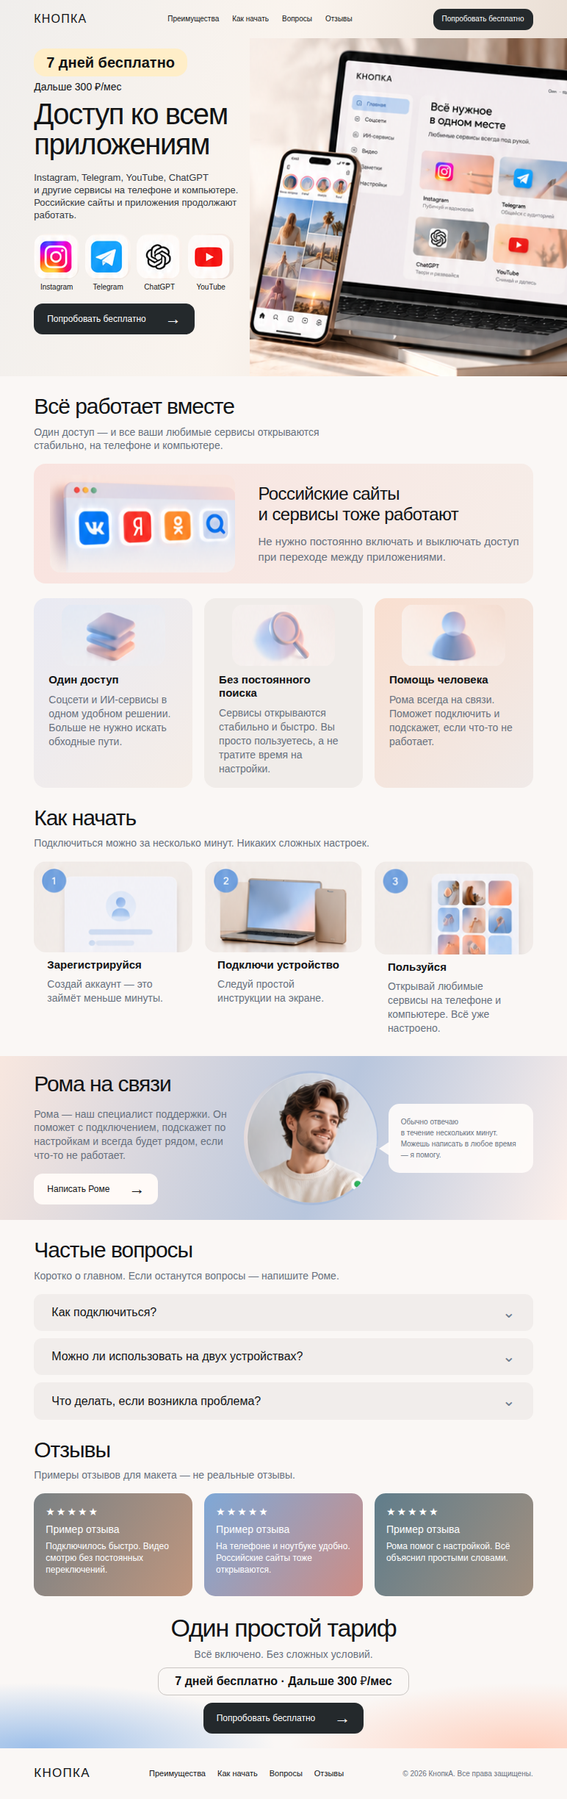
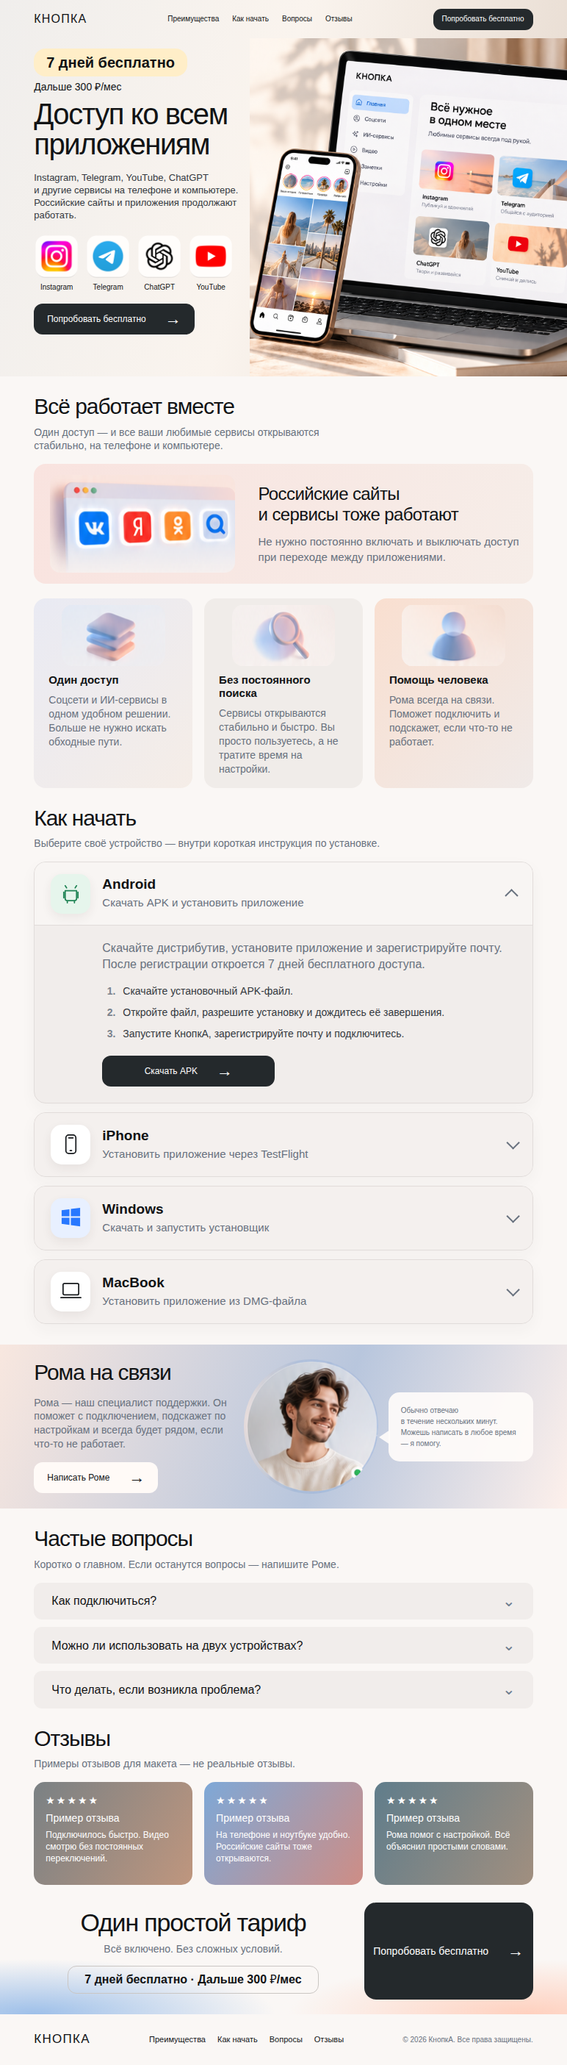
Redesign landing hero assets

diff --git a/Design2.0/version-001-mvp/site/source/styles.css b/Design2.0/version-001-mvp/site/source/styles.css
@@ -3,4 +3,33 @@
 *{box-sizing:border-box}body{margin:0;font-size:16px;line-height:1.35}img{display:block;max-width:100%;height:auto}button,a,summary{-webkit-tap-highlight-color:transparent}button{font:inherit}a{color:inherit;text-decoration:none}button{cursor:pointer}a:focus-visible,button:focus-visible,summary:focus-visible{outline:3px solid #406cb1;outline-offset:4px}h1,h2,h3,p{margin:0}h1,h2{font-weight:400;letter-spacing:-.035em}h2{font-size:clamp(30px,3.7vw,48px);line-height:1.12}h3{font-size:18px;font-weight:600;line-height:1.2}p{color:var(--muted)}.shell{width:88%;max-width:1160px;margin-inline:auto}.skip-link{position:absolute;left:12px;top:-80px;z-index:10;background:white;padding:12px}.skip-link:focus{top:12px}.hero-wrap{position:relative;background:linear-gradient(105deg,#f0eeec,#faf4ee 46%,#e5d8cd)}.header{height:76px;display:flex;align-items:center;gap:22px;position:relative;z-index:2}.wordmark{font-size:20px;letter-spacing:.075em;white-space:nowrap}.header nav,.footer nav{display:flex;gap:30px;align-items:center}.header nav{margin-inline:auto}.header nav a{font-size:13px}.button{display:inline-flex;align-items:center;justify-content:center;gap:26px;background:var(--action);color:white;border:0;border-radius:12px;min-height:48px;padding:12px 23px;font-size:15px;white-space:nowrap}.button span{font-size:22px;font-weight:300;line-height:1}.button.small{min-height:36px;padding:9px 16px;border-radius:11px;font-size:12px}.hero{max-width:1320px;margin:auto;position:relative;min-height:700px;display:grid;grid-template-columns:44% 56%;align-items:start;overflow:hidden}.hero-copy{position:relative;z-index:1;padding:30px 0 85px 13.6%;width:100%}.trial{display:inline-block;background:#ffeec8;border-radius:16px;padding:9px 22px;font-size:27px;line-height:1.1;white-space:nowrap}.after-trial{font-size:17px;color:var(--ink);margin:5px 0 7px}.hero h1{font-size:clamp(36px,4.65vw,60px);line-height:1.04;margin:0 0 16px}.hero-description{font-size:17px;line-height:1.3;color:#343940}.services{display:flex;gap:13px;list-style:none;margin:20px 0 22px;padding:0}.services li{text-align:center;min-width:0;width:85px;flex-shrink:1}.services img{width:100%;border-radius:17px}.services span{display:block;margin-top:4px;font-size:13px}.hero-image{width:100%;height:700px;object-fit:cover;object-position:left top;align-self:stretch}.hero-cta{min-width:280px}.section{padding-top:32px}.section-intro{margin:9px 0 20px;font-size:17px}.russian-card{display:grid;grid-template-columns:43% 57%;align-items:center;padding:24px 30px;border-radius:var(--radius);background:linear-gradient(110deg,#f9e3df,#f6ede8);gap:10px}.russian-card img{width:92%;border-radius:14px}.russian-card h3{font-size:clamp(24px,2.7vw,34px);font-weight:500;letter-spacing:-.025em}.russian-card p{margin-top:12px;font-size:18px;max-width:520px}.grid-three{display:grid;grid-template-columns:repeat(3,minmax(0,1fr));gap:22px}.benefits{margin-top:20px}.benefits article{padding:12px 28px 24px;background:#f0ece9;border-radius:var(--radius)}.benefits article:first-child{background:linear-gradient(135deg,#e9eaf3,#f5ede7)}.benefits article:last-child{background:linear-gradient(135deg,#f9dfd0,#f0eae8)}.benefits img{width:80%;height:128px;object-fit:contain;margin:auto auto 9px;border-radius:16px}.benefits p{margin-top:9px;font-size:17px}.steps{list-style:none;margin:0;padding:0}.steps img{width:100%;border-radius:17px}.steps h3,.steps p{margin:10px 24px 0}.steps p{font-size:17px}.support{margin-top:38px;padding:26px 0;background:linear-gradient(110deg,#f8e7df,#b8c6dd 58%,#fdf0eb)}.support-grid{display:grid;grid-template-columns:40% 27% 29%;gap:2%;align-items:center}.support-copy p{margin:15px 0;font-size:17px;max-width:370px}.light{background:#fffaf7;color:var(--ink)}.portrait{width:100%;aspect-ratio:1;object-fit:cover;border-radius:50%}.speech{position:relative;background:#fffcfae8;border-radius:15px;padding:22px;font-size:13px;line-height:1.5}.speech::before{content:"";position:absolute;left:-13px;top:55%;border-top:10px solid transparent;border-bottom:10px solid transparent;border-right:15px solid #fffcfae8}details{margin-top:10px;border-radius:11px;background:#f1edeb}summary{cursor:pointer;list-style:none;padding:11px 24px;display:flex;align-items:center;justify-content:space-between;gap:16px;font-size:16px}summary::-webkit-details-marker{display:none}summary::after{content:"⌄";color:#6d7d8f;font-size:21px}details[open] summary::after{content:"−"}details p{padding:0 24px 16px;font-size:16px}.reviews{padding-top:34px}.review-grid article{border-radius:15px;padding:20px 26px;min-height:165px;color:#fff;background:linear-gradient(120deg,#7a8184,#bf967e)}.review-grid article:nth-child(2){background:linear-gradient(125deg,#7ea8d7,#ce8d85)}.review-grid article:nth-child(3){background:linear-gradient(120deg,#607d8b,#a18f7f)}.review-grid strong{display:block;font-size:14px;font-weight:500;margin:5px 0}.review-grid p{color:inherit;font-size:14px}.stars{letter-spacing:2px}.tariff{position:relative;margin-top:10px;text-align:center;padding:14px 0 20px;overflow:hidden;background:radial-gradient(ellipse at 6% 100%,#9dbfe9 0,transparent 32%),radial-gradient(ellipse at 93% 100%,#ffd0be 0,transparent 32%),var(--paper)}.tariff h2{font-size:34px}.tariff p{margin:8px 0;font-size:14px}.tariff-price{display:inline-block;padding:7px 22px;border:1px solid #cac6c3;border-radius:12px;font-size:16px}.tariff .button{margin-top:10px}.footer{padding:23px 0;display:flex;align-items:center;justify-content:space-between;gap:22px}.footer .wordmark{font-size:17px}.footer nav{gap:24px;font-size:11px}.footer small{font-size:10px;color:var(--muted)}
 @media(min-width:701px) and (max-width:1000px){body{font-size:14px}.header{height:52px;gap:10px}.header nav{gap:18px}.header nav a{font-size:10px}.wordmark{font-size:16px}.button.small{font-size:10px;padding:7px 12px;min-height:29px}.hero{min-height:460px}.hero-image{height:460px}.hero-copy{padding-top:14px;padding-bottom:30px}.trial{font-size:20px;padding:8px 17px}.after-trial{font-size:14px}.hero h1{font-size:40px}.hero-description{font-size:13px}.services{gap:8px;margin:16px 0}.services li{width:62px}.services span{font-size:10px}.hero-cta{min-width:0}.button{font-size:12px;min-height:40px;padding:10px 18px}.section{padding-top:24px}.section-intro{font-size:14px;margin-bottom:15px}.russian-card{padding:15px 22px}.russian-card p{font-size:15px}.grid-three{gap:16px}.benefits article{padding:8px 20px 16px}.benefits img{height:85px}h3{font-size:15px}.benefits p,.steps p,.support-copy p{font-size:14px}.steps h3,.steps p{margin:8px 18px 0}.speech{font-size:10px;padding:17px}.support{margin-top:28px;padding:20px 0}.review-grid article{padding:16px;min-height:140px}.review-grid p{font-size:12px}.footer nav{gap:16px}}
 @media(max-width:700px){.shell{width:calc(100% - 32px)}.header{height:auto;min-height:92px;padding:17px 0 13px;flex-wrap:wrap;gap:12px}.header .wordmark{font-size:18px}.header .small{margin-left:auto;min-height:32px;font-size:10px;padding:8px 10px}.header nav{width:100%;order:3;justify-content:space-between;gap:8px;margin:0}.header nav a{font-size:11px}.hero{display:flex;flex-direction:column;min-height:0}.hero-copy{padding:20px 22px 25px}.trial{font-size:22px;padding:9px 17px}.after-trial{font-size:15px}.hero h1{font-size:39px;margin-top:8px}.hero-description{font-size:15px}.desktop-break{display:none}.services{gap:12px;margin:20px 0}.services li{width:68px}.services span{font-size:11px}.hero-cta{min-width:0;width:100%}.hero-image{height:auto;max-height:450px;aspect-ratio:434/448;object-fit:cover;object-position:center}.section{padding-top:29px}h2{font-size:31px}.section-intro{font-size:15px;margin-bottom:17px}.russian-card{grid-template-columns:1fr;padding:18px;gap:20px}.russian-card img{width:250px;max-width:100%;margin:auto}.russian-card h3{font-size:25px}.russian-card p{font-size:16px}.grid-three{grid-template-columns:1fr;gap:15px}.benefits article{padding:18px 22px}.benefits img{width:140px;height:82px;margin:0 0 14px}.benefits p{font-size:16px}.steps li{padding-bottom:9px}.steps img{max-height:205px;object-fit:cover}.steps h3,.steps p{margin:10px 12px 0}.steps p{font-size:16px}.support{margin-top:28px}.support-grid{grid-template-columns:1fr 120px;gap:18px}.support-copy{grid-column:1/-1}.support-copy p{font-size:16px}.portrait{grid-column:2;grid-row:2}.speech{grid-column:1;grid-row:2;font-size:12px;padding:14px}.speech::before{left:auto;right:-12px;border-right:0;border-left:13px solid #fffcfae8}summary{font-size:15px;padding:12px 16px}details p{font-size:15px;padding-inline:16px}.review-grid article{min-height:0;padding:20px}.review-grid p{font-size:15px}.tariff{margin-top:22px;padding:24px 0}.tariff h2{font-size:29px}.tariff-price{font-size:14px;padding:8px 10px}.footer{flex-wrap:wrap;padding:24px 0;gap:18px}.footer nav{order:2;width:100%;justify-content:space-between;gap:10px;font-size:11px}.footer small{width:100%;order:3}.button{white-space:normal}}
+
+.platform-accordions{display:grid;gap:12px;max-width:920px}
+.platform-accordion{margin:0;border:1px solid #e1dcda;border-radius:16px;background:#f1edeb;overflow:hidden;box-shadow:0 8px 22px rgb(50 43 39 / 4%)}
+.platform-accordion summary{min-height:86px;padding:14px 22px;justify-content:flex-start;background:#f4f0ee}
+.platform-accordion summary::after{content:"";width:11px;height:11px;margin-left:auto;border-right:2px solid #68717e;border-bottom:2px solid #68717e;transform:rotate(45deg) translateY(-3px);transition:transform .18s ease}
+.platform-accordion[open] summary::after{content:"";transform:rotate(225deg) translate(-2px,-2px)}
+.platform-accordion[open] summary{border-bottom:1px solid #e1dcda;background:#f8f5f3}
+.platform-mark{display:grid;place-items:center;flex:0 0 54px;width:54px;height:54px;border-radius:15px;background:#fff;color:#171a1d;box-shadow:0 5px 14px rgb(50 43 39 / 7%)}
+.platform-mark svg{width:31px;height:31px;fill:none;stroke:currentColor;stroke-width:1.8;stroke-linecap:round;stroke-linejoin:round}
+.platform-mark.filled svg{fill:currentColor;stroke:none}
+.platform-android .platform-mark{color:#208455;background:#e6f5ec}
+.platform-iphone .platform-mark,.platform-macbook .platform-mark{background:#fff}
+.platform-windows .platform-mark{color:#2878ff;background:#e8f0ff}
+.platform-heading{display:grid;gap:3px;min-width:0}
+.platform-heading strong{font-size:19px;line-height:1.2}
+.platform-heading span{color:var(--muted);font-size:15px}
+.platform-content{padding:20px 22px 22px 92px}
+.platform-content>p{max-width:690px;padding:0;font-size:16px}
+.platform-content ol{display:grid;gap:10px;margin:17px 0 20px;padding-left:22px;max-width:720px;color:#343940}
+.platform-content li{padding-left:6px}
+.platform-content li::marker{font-weight:700;color:#7b838d}
+.platform-download{min-width:235px}
+.tariff-layout{display:grid;grid-template-columns:max-content minmax(300px,360px);justify-content:center;gap:32px;align-items:stretch}
+.tariff-copy{display:flex;flex-direction:column;align-items:center;justify-content:center;padding:8px 0;text-align:center}
+.tariff-copy .tariff-price{margin-top:5px}
+.tariff .tariff-cta{align-self:stretch;min-height:100%;margin-top:0;border-radius:16px;font-size:17px}
+@media(min-width:701px) and (max-width:1000px){.tariff-layout{grid-template-columns:minmax(0,1fr) 230px;gap:16px}.tariff .tariff-cta{font-size:14px}}
+@media(max-width:700px){.platform-accordions{gap:10px}.platform-accordion summary{min-height:76px;padding:11px 14px;gap:12px}.platform-mark{flex-basis:48px;width:48px;height:48px;border-radius:13px}.platform-mark svg{width:28px;height:28px}.platform-heading strong{font-size:17px}.platform-heading span{font-size:13px;line-height:1.3}.platform-content{padding:17px 16px 19px}.platform-content>p{padding:0;font-size:15px}.platform-content ol{gap:9px;margin:15px 0 18px;padding-left:21px;font-size:15px}.platform-download{width:100%;min-width:0}.tariff-layout{grid-template-columns:1fr;gap:14px}.tariff-copy{align-items:center;padding:0;text-align:center}.tariff .tariff-cta{width:100%;min-height:62px;font-size:16px}}
+@media(prefers-reduced-motion:reduce){.platform-accordion summary::after{transition:none}}
 @media(prefers-reduced-motion:no-preference){html{scroll-behavior:smooth}}

diff --git a/Design2.0/version-001-mvp/site/source/index.html b/Design2.0/version-001-mvp/site/source/index.html
@@ -12,7 +12,7 @@
     <header class="header shell">
       <a class="wordmark" href="#top">КНОПКА</a>
       <nav aria-label="Основная навигация"><a href="#benefits">Преимущества</a><a href="#start">Как начать</a><a href="#faq">Вопросы</a><a href="#reviews">Отзывы</a></nav>
-      <a class="button small" href="#tariff">Попробовать бесплатно</a>
+      <a class="button small" href="#start">Попробовать бесплатно</a>
     </header>
     <section class="hero" aria-labelledby="hero-title">
       <div class="hero-copy">
@@ -20,14 +20,14 @@
         <h1 id="hero-title">Доступ ко всем<br>приложениям</h1>
         <p class="hero-description">Instagram, Telegram, YouTube, ChatGPT<br class="desktop-break"> и другие сервисы на телефоне и компьютере.<br class="desktop-break"> Российские сайты и приложения продолжают работать.</p>
         <ul class="services" aria-label="Примеры доступных приложений">
-          <li><img src="../assets/instagram.png" alt="" width="62" height="62"><span>Instagram</span></li>
-          <li><img src="../assets/telegram.png" alt="" width="62" height="62"><span>Telegram</span></li>
-          <li><img src="../assets/chatgpt.png" alt="" width="62" height="62"><span>ChatGPT</span></li>
-          <li><img src="../assets/youtube.png" alt="" width="62" height="62"><span>YouTube</span></li>
+          <li><img src="../assets/instagram-v2.png" alt="" width="512" height="512"><span>Instagram</span></li>
+          <li><img src="../assets/telegram-v2.png" alt="" width="512" height="512"><span>Telegram</span></li>
+          <li><img src="../assets/chatgpt-v2.png" alt="" width="512" height="512"><span>ChatGPT</span></li>
+          <li><img src="../assets/youtube-v2.png" alt="" width="512" height="512"><span>YouTube</span></li>
         </ul>
-        <a class="button hero-cta" href="#tariff">Попробовать бесплатно <span aria-hidden="true">→</span></a>
+        <a class="button hero-cta" href="#start">Попробовать бесплатно <span aria-hidden="true">→</span></a>
       </div>
-      <img class="hero-image" src="../assets/reference-hero.png" alt="Ноутбук и телефон с приложениями — визуальная концепция" width="434" height="448">
+      <img class="hero-image" src="../assets/reference-hero-v2.png" alt="Ноутбук и телефон с приложениями — визуальная концепция" width="1234" height="1274">
     </section>
   </div>
   <main id="main">
@@ -41,12 +41,82 @@
       </div>
     </section>
     <section class="section shell" id="start" aria-labelledby="start-title">
-      <h2 id="start-title">Как начать</h2><p class="section-intro">Подключиться можно за несколько минут. Никаких сложных настроек.</p>
-      <ol class="steps grid-three">
-        <li><img src="../assets/step-register.png" alt="Шаг 1: регистрация" width="218" height="125"><h3>Зарегистрируйся</h3><p>Создай аккаунт — это займёт меньше минуты.</p></li>
-        <li><img src="../assets/step-device.png" alt="Шаг 2: ноутбук и телефон" width="218" height="125"><h3>Подключи устройство</h3><p>Следуй простой инструкции на экране.</p></li>
-        <li><img src="../assets/step-use.png" alt="Шаг 3: любимые сервисы" width="212" height="125"><h3>Пользуйся</h3><p>Открывай любимые сервисы на телефоне и компьютере. Всё уже настроено.</p></li>
-      </ol>
+      <h2 id="start-title">Как начать</h2>
+      <p class="section-intro">Выберите своё устройство — внутри короткая инструкция по установке.</p>
+      <div class="platform-accordions">
+        <details class="platform-accordion platform-android">
+          <summary>
+            <span class="platform-mark" aria-hidden="true">
+              <svg viewBox="0 0 32 32"><path d="m10 8-2-3m14 3 2-3M8 12h16v11a3 3 0 0 1-3 3H11a3 3 0 0 1-3-3V12Zm-2 2v8m20-8v8M11 26v3m10-3v3"/></svg>
+            </span>
+            <span class="platform-heading"><strong>Android</strong><span>Скачать APK и установить приложение</span></span>
+          </summary>
+          <div class="platform-content">
+            <p>Скачайте дистрибутив, установите приложение и зарегистрируйте почту. После регистрации откроется 7 дней бесплатного доступа.</p>
+            <ol>
+              <li>Скачайте установочный APK-файл.</li>
+              <li>Откройте файл, разрешите установку и дождитесь её завершения.</li>
+              <li>Запустите КнопкА, зарегистрируйте почту и подключитесь.</li>
+            </ol>
+            <button type="button" class="button platform-download">Скачать APK <span aria-hidden="true">→</span></button>
+          </div>
+        </details>
+
+        <details class="platform-accordion platform-iphone">
+          <summary>
+            <span class="platform-mark" aria-hidden="true">
+              <svg viewBox="0 0 32 32"><rect x="9" y="3" width="14" height="26" rx="4"/><path d="M13 7h6M15 25h2"/></svg>
+            </span>
+            <span class="platform-heading"><strong>iPhone</strong><span>Установить приложение через TestFlight</span></span>
+          </summary>
+          <div class="platform-content">
+            <p>Установите КнопкА через TestFlight, зарегистрируйте почту и получите 7 дней бесплатного доступа.</p>
+            <ol>
+              <li>Откройте ссылку на установку. Если TestFlight ещё нет на iPhone, сначала установите его.</li>
+              <li>В TestFlight нажмите «Установить» и дождитесь завершения.</li>
+              <li>Откройте КнопкА, зарегистрируйте почту и подключитесь.</li>
+            </ol>
+            <button type="button" class="button platform-download">Открыть TestFlight <span aria-hidden="true">→</span></button>
+          </div>
+        </details>
+
+        <details class="platform-accordion platform-windows">
+          <summary>
+            <span class="platform-mark filled" aria-hidden="true">
+              <svg viewBox="0 0 32 32"><path d="M3 5.5 14 4v10H3V5.5ZM16 3.7 29 2v12H16V3.7ZM3 16h11v10L3 24.5V16Zm13 0h13v12l-13-1.7V16Z"/></svg>
+            </span>
+            <span class="platform-heading"><strong>Windows</strong><span>Скачать и запустить установщик</span></span>
+          </summary>
+          <div class="platform-content">
+            <p>Скачайте установщик, завершите установку и зарегистрируйтесь в приложении. Первые 7 дней — бесплатно.</p>
+            <ol>
+              <li>Скачайте и запустите установочный EXE-файл. Разрешите Windows его выполнение.</li>
+              <li>Завершите установку и откройте ярлык КнопкА на рабочем столе.</li>
+              <li>Зарегистрируйте почту и подключитесь.</li>
+            </ol>
+            <button type="button" class="button platform-download">Скачать для Windows <span aria-hidden="true">→</span></button>
+          </div>
+        </details>
+
+        <details class="platform-accordion platform-macbook">
+          <summary>
+            <span class="platform-mark" aria-hidden="true">
+              <svg viewBox="0 0 32 32"><rect x="5" y="5" width="22" height="16" rx="2"/><path d="M2 25h28M11 25h10"/></svg>
+            </span>
+            <span class="platform-heading"><strong>MacBook</strong><span>Установить приложение из DMG-файла</span></span>
+          </summary>
+          <div class="platform-content">
+            <p>Скачайте DMG-файл, перенесите КнопкА в «Программы» и зарегистрируйте почту, чтобы получить 7 дней бесплатного доступа.</p>
+            <ol>
+              <li>Скачайте и откройте установочный DMG-файл.</li>
+              <li>Перетащите КнопкА в папку «Программы».</li>
+              <li>Откройте приложение и разрешите macOS установку профиля и запуск расширения.</li>
+              <li>Зарегистрируйте почту и подключитесь.</li>
+            </ol>
+            <button type="button" class="button platform-download">Скачать для MacBook <span aria-hidden="true">→</span></button>
+          </div>
+        </details>
+      </div>
     </section>
     <section class="support" aria-labelledby="support-title"><div class="shell support-grid">
       <div class="support-copy"><h2 id="support-title">Рома на связи</h2><p>Рома — наш специалист поддержки. Он поможет с подключением, подскажет по настройкам и всегда будет рядом, если что-то не работает.</p><button type="button" class="button light">Написать Роме <span aria-hidden="true">→</span></button></div>
@@ -67,7 +137,16 @@
         <article><span class="stars" aria-label="Демонстрационная оценка: пять звёзд">★★★★★</span><strong>Пример отзыва</strong><p>Рома помог с настройкой. Всё объяснил простыми словами.</p></article>
       </div>
     </section>
-    <section class="tariff" id="tariff" aria-labelledby="tariff-title"><div class="shell"><h2 id="tariff-title">Один простой тариф</h2><p>Всё включено. Без сложных условий.</p><strong class="tariff-price">7 дней бесплатно · Дальше 300 ₽/мес</strong><br><button type="button" class="button">Попробовать бесплатно <span aria-hidden="true">→</span></button></div></section>
+    <section class="tariff" id="tariff" aria-labelledby="tariff-title">
+      <div class="shell tariff-layout">
+        <div class="tariff-copy">
+          <h2 id="tariff-title">Один простой тариф</h2>
+          <p>Всё включено. Без сложных условий.</p>
+          <strong class="tariff-price">7 дней бесплатно · Дальше 300 ₽/мес</strong>
+        </div>
+        <a class="button tariff-cta" href="#start">Попробовать бесплатно <span aria-hidden="true">→</span></a>
+      </div>
+    </section>
   </main>
   <footer class="footer shell"><a class="wordmark" href="#top">КНОПКА</a><nav aria-label="Навигация в подвале"><a href="#benefits">Преимущества</a><a href="#start">Как начать</a><a href="#faq">Вопросы</a><a href="#reviews">Отзывы</a></nav><small>© 2026 КнопкА. Все права защищены.</small></footer>
 </body>

diff --git a/Design2.0/version-001-mvp/site/template/styles.css b/Design2.0/version-001-mvp/site/template/styles.css
@@ -2,31 +2,5 @@
 @import url('../source/styles.css');
 .media-slot{display:grid;place-items:center;aspect-ratio:var(--slot-ratio);max-width:100%;border:1px dashed #9da5b0;border-radius:14px;color:#59616c;background:#f0efed;font:11px/1.3 Arial,sans-serif;text-align:center;overflow-wrap:anywhere}
 .services .media-slot{width:100%}.russian-card>.media-slot{width:92%}.benefits .media-slot{width:80%;height:128px;margin:0 auto 9px}.steps .media-slot{width:100%}.media-slot.portrait{width:100%}.media-slot.hero-image{height:700px}
-.platform-accordions{display:grid;gap:12px;max-width:920px}
-.platform-accordion{margin:0;border:1px solid #e1dcda;border-radius:16px;background:#f1edeb;overflow:hidden;box-shadow:0 8px 22px rgb(50 43 39 / 4%)}
-.platform-accordion summary{min-height:86px;padding:14px 22px;justify-content:flex-start;background:#f4f0ee}
-.platform-accordion summary::after{content:"";width:11px;height:11px;margin-left:auto;border-right:2px solid #68717e;border-bottom:2px solid #68717e;transform:rotate(45deg) translateY(-3px);transition:transform .18s ease}
-.platform-accordion[open] summary::after{content:"";transform:rotate(225deg) translate(-2px,-2px)}
-.platform-accordion[open] summary{border-bottom:1px solid #e1dcda;background:#f8f5f3}
-.platform-mark{display:grid;place-items:center;flex:0 0 54px;width:54px;height:54px;border-radius:15px;background:#fff;color:#171a1d;box-shadow:0 5px 14px rgb(50 43 39 / 7%)}
-.platform-mark svg{width:31px;height:31px;fill:none;stroke:currentColor;stroke-width:1.8;stroke-linecap:round;stroke-linejoin:round}
-.platform-mark.filled svg{fill:currentColor;stroke:none}
-.platform-android .platform-mark{color:#208455;background:#e6f5ec}
-.platform-iphone .platform-mark,.platform-macbook .platform-mark{background:#fff}
-.platform-windows .platform-mark{color:#2878ff;background:#e8f0ff}
-.platform-heading{display:grid;gap:3px;min-width:0}
-.platform-heading strong{font-size:19px;line-height:1.2}
-.platform-heading span{color:var(--muted);font-size:15px}
-.platform-content{padding:20px 22px 22px 92px}
-.platform-content>p{max-width:690px;padding:0;font-size:16px}
-.platform-content ol{display:grid;gap:10px;margin:17px 0 20px;padding-left:22px;max-width:720px;color:#343940}
-.platform-content li{padding-left:6px}
-.platform-content li::marker{font-weight:700;color:#7b838d}
-.platform-download{min-width:235px}
-.tariff-layout{display:grid;grid-template-columns:max-content minmax(300px,360px);justify-content:center;gap:32px;align-items:stretch}
-.tariff-copy{display:flex;flex-direction:column;align-items:center;justify-content:center;padding:8px 0;text-align:center}
-.tariff-copy .tariff-price{margin-top:5px}
-.tariff .tariff-cta{align-self:stretch;min-height:100%;margin-top:0;border-radius:16px;font-size:17px}
-@media(min-width:701px) and (max-width:1000px){.media-slot.hero-image{height:460px}.benefits .media-slot{height:85px}.tariff-layout{grid-template-columns:minmax(0,1fr) 230px;gap:16px}.tariff .tariff-cta{font-size:14px}}
-@media(max-width:700px){.media-slot.hero-image{height:auto;max-height:450px;width:100%}.russian-card>.media-slot{width:250px;margin:auto}.benefits .media-slot{width:140px;height:82px;margin:0 0 14px}.steps .media-slot{max-height:205px}.platform-accordions{gap:10px}.platform-accordion summary{min-height:76px;padding:11px 14px;gap:12px}.platform-mark{flex-basis:48px;width:48px;height:48px;border-radius:13px}.platform-mark svg{width:28px;height:28px}.platform-heading strong{font-size:17px}.platform-heading span{font-size:13px;line-height:1.3}.platform-content{padding:17px 16px 19px}.platform-content>p{padding:0;font-size:15px}.platform-content ol{gap:9px;margin:15px 0 18px;padding-left:21px;font-size:15px}.platform-download{width:100%;min-width:0}.tariff-layout{grid-template-columns:1fr;gap:14px}.tariff-copy{align-items:center;padding:0;text-align:center}.tariff .tariff-cta{width:100%;min-height:62px;font-size:16px}}
-@media(prefers-reduced-motion:reduce){.platform-accordion summary::after{transition:none}}
+@media(min-width:701px) and (max-width:1000px){.media-slot.hero-image{height:460px}.benefits .media-slot{height:85px}}
+@media(max-width:700px){.media-slot.hero-image{height:auto;max-height:450px;width:100%}.russian-card>.media-slot{width:250px;margin:auto}.benefits .media-slot{width:140px;height:82px;margin:0 0 14px}.steps .media-slot{max-height:205px}}

diff --git a/Design2.0/version-001-mvp/site/template/index.html b/Design2.0/version-001-mvp/site/template/index.html
@@ -20,14 +20,14 @@
         <h1 id="hero-title">Доступ ко всем<br>приложениям</h1>
         <p class="hero-description">Instagram, Telegram, YouTube, ChatGPT<br class="desktop-break"> и другие сервисы на телефоне и компьютере.<br class="desktop-break"> Российские сайты и приложения продолжают работать.</p>
         <ul class="services" aria-label="Примеры доступных приложений">
-          <li><span class="media-slot " role="img" aria-label="Место для изображения instagram" style="--slot-ratio:62/62">instagram</span><span>Instagram</span></li>
-          <li><span class="media-slot " role="img" aria-label="Место для изображения telegram" style="--slot-ratio:62/62">telegram</span><span>Telegram</span></li>
-          <li><span class="media-slot " role="img" aria-label="Место для изображения chatgpt" style="--slot-ratio:62/62">chatgpt</span><span>ChatGPT</span></li>
-          <li><span class="media-slot " role="img" aria-label="Место для изображения youtube" style="--slot-ratio:62/62">youtube</span><span>YouTube</span></li>
+          <li><span class="media-slot " role="img" aria-label="Место для изображения instagram-v2" style="--slot-ratio:512/512">instagram-v2</span><span>Instagram</span></li>
+          <li><span class="media-slot " role="img" aria-label="Место для изображения telegram-v2" style="--slot-ratio:512/512">telegram-v2</span><span>Telegram</span></li>
+          <li><span class="media-slot " role="img" aria-label="Место для изображения chatgpt-v2" style="--slot-ratio:512/512">chatgpt-v2</span><span>ChatGPT</span></li>
+          <li><span class="media-slot " role="img" aria-label="Место для изображения youtube-v2" style="--slot-ratio:512/512">youtube-v2</span><span>YouTube</span></li>
         </ul>
         <a class="button hero-cta" href="#start">Попробовать бесплатно <span aria-hidden="true">→</span></a>
       </div>
-      <span class="media-slot hero-image" role="img" aria-label="Место для изображения reference-hero" style="--slot-ratio:434/448">reference-hero</span>
+      <span class="media-slot hero-image" role="img" aria-label="Место для изображения reference-hero-v2" style="--slot-ratio:1234/1274">reference-hero-v2</span>
     </section>
   </div>
   <main id="main">

diff --git a/Design2.0/version-001-mvp/site/assets/README.md b/Design2.0/version-001-mvp/site/assets/README.md
@@ -7,3 +7,29 @@
 Краткий prompt: светлое домашнее рабочее место, ноутбук и телефон справа,
 свободное пространство слева, молочно-персиково-голубая палитра, мягкий
 утренний свет; без людей, текста, логотипов и fake UI.
+
+## Hero v2
+
+`reference-hero-v2.png` создан встроенным imagegen на основе
+`reference-hero.png`. Сохранены композиция, ракурс, ноутбук, телефон и светлая
+палитра; повышены разрешение и детализация. Итоговый файл — `1234×1274`, без
+водяных знаков и рекламного текста.
+
+Краткий prompt: реалистичная премиальная предметная фотография ноутбука и
+телефона на светлом столе, тот же кадр и пропорции, аккуратные интерфейсы
+приложений, тёплый мягкий дневной свет; без людей, дополнительных устройств и
+искажённой геометрии.
+
+## App icons v2
+
+`instagram-v2.png`, `telegram-v2.png`, `chatgpt-v2.png` и `youtube-v2.png`
+собраны в единой плитке `512×512` из векторных знаков Wikimedia Commons:
+
+- `Instagram_logo_2022.svg`;
+- `Telegram_2019_Logo.svg`;
+- `ChatGPT-Logo.svg`;
+- `YouTube_full-color_icon_(2017).svg`.
+
+Загруженные SVG и контрольные PNG-копии находятся в
+`sources/app-icons/`. Названия и товарные знаки принадлежат соответствующим
+правообладателям.
